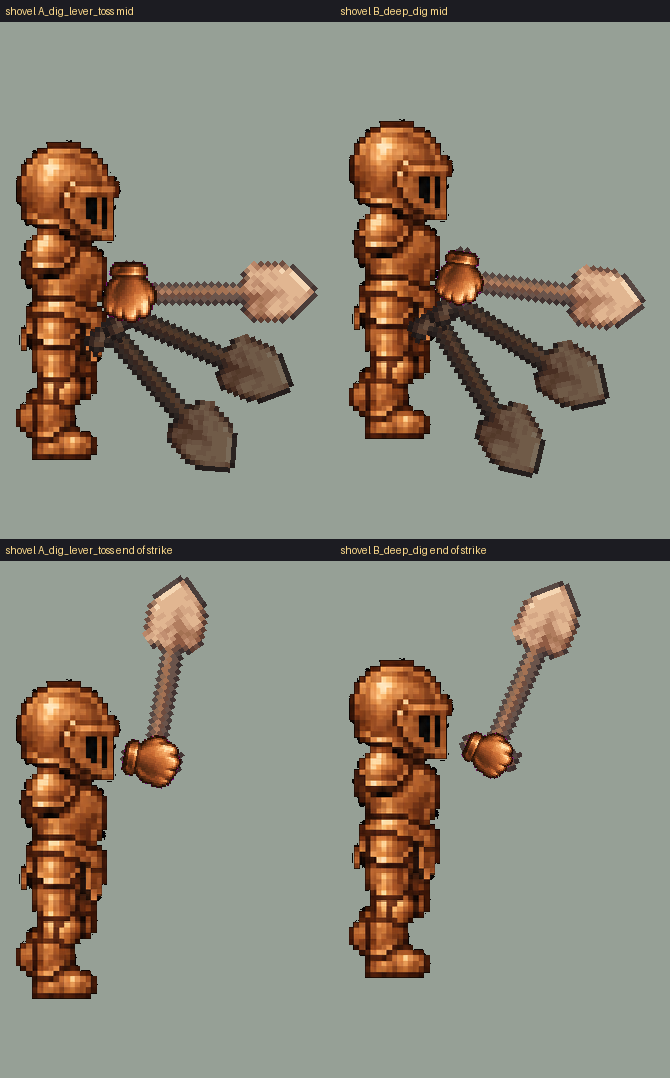
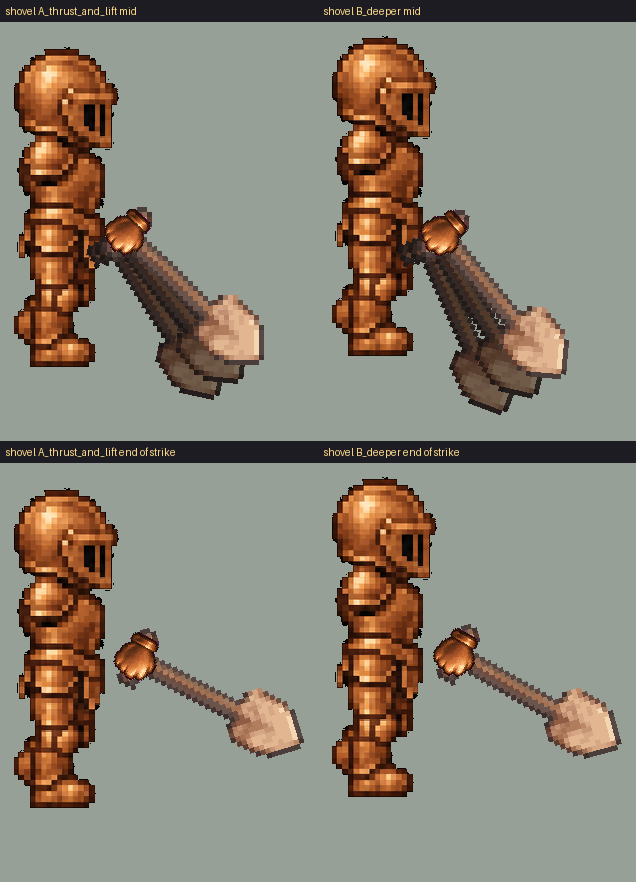
Shovel: thrust in, lift a little, return
"the shovel looks nothing like a shovel, you are supposed to thrust in and then
swing up just a little before returning."

My version levered the handle right over and heaved the load up past his
shoulder. That is a different action entirely - I built the whole dig-lever-lift-
toss sequence when the animation needs the first beat and a small lift.

Now: REACH drives the blade in (0.32 -> 0.68 cells), then a SMALL angular change
at the end (-70 -> -48 deg), then return. The blade never leaves the ground line.
FILMSTRIP_shovel.png shows all 12 frames.

Also fixed a bug I introduced with the clear-the-folder-each-run change: it
removed EVERY file in the review folder, including the hand-written README
explaining the options. Those notes are not regenerable. All three lab scripts now
clear only the .gif/.png they produce.

Changed region(s): [[0.0, 0.0, 1.0, 0.4898], [0.0, 0.4898, 1.0, 0.949]]

diff --git a/tools/player_sprites/swing_tools.py b/tools/player_sprites/swing_tools.py
@@ -83,13 +83,19 @@ TOOLS = {
                         (30, -28, 0.44)),
     }),
     "shovel": ("shovel_copper_icon.png", False, {
-        # DIG. push in -> lever the handle back with the blade planted -> lift -> toss.
-        "A_dig_lever_toss": ((-55, 25, 0.45),
-                             [(-72, 10, 0.62), (-80, 5, 0.68), (-45, 45, 0.50), (10, 70, 0.50)],
-                             (-40, 35, 0.44)),
-        "B_deep_dig": ((-50, 28, 0.44),
-                       [(-76, 8, 0.64), (-86, 2, 0.74), (-50, 42, 0.52), (0, 66, 0.52)],
-                       (-40, 35, 0.44)),
+        # THRUST IN, then swing up JUST A LITTLE, then return. Owner: "you are supposed to thrust in and
+        # then swing up just a little before returning."
+        #
+        # The motion is REACH (driving the blade into the ground), and the lift is a SMALL angular change
+        # at the end — the blade never leaves the ground line. My previous version levered the handle right
+        # over and heaved the load up past his shoulder, which is a completely different action and looked
+        # nothing like a shovel.
+        "A_thrust_and_lift": ((-50, 20, 0.32),
+                              [(-62, 12, 0.52), (-70, 6, 0.68), (-58, 14, 0.66), (-48, 20, 0.62)],
+                              (-50, 22, 0.36)),
+        "B_deeper": ((-46, 22, 0.30),
+                     [(-64, 10, 0.54), (-76, 2, 0.74), (-62, 12, 0.72), (-50, 20, 0.66)],
+                     (-48, 24, 0.34)),
     }),
     "spear": ("spear_bronze_icon.png", True, {
         # COCKED BACK at the body, then driven forward. Reach is the entire motion.
@@ -107,7 +113,10 @@ def main():
     d = os.path.join(R.PLAYER, "reviews", f"{datetime.date.today().isoformat()}-swing-tools")
     os.makedirs(d, exist_ok=True)
     for f in sorted(os.listdir(d)):
-        os.remove(os.path.join(d, f))
+        # Clear only what THIS script generates. A blanket remove deletes the hand-written README in the
+        # folder too, which happened once — the notes explaining the options are not regenerable.
+        if f.lower().endswith((".gif", ".png")):
+            os.remove(os.path.join(d, f))
 
     hands, _ = R.load_hands(OUTFIT)
     body = R.load_bank(OUTFIT, "side", 1)[1]

diff --git a/tools/player_sprites/swing_game.py b/tools/player_sprites/swing_game.py
@@ -155,7 +155,10 @@ def main():
     d = os.path.join(R.PLAYER, "reviews", f"{datetime.date.today().isoformat()}-swing-game")
     os.makedirs(d, exist_ok=True)
     for f in sorted(os.listdir(d)):
-        os.remove(os.path.join(d, f))
+        # Clear only what THIS script generates. A blanket remove deletes the hand-written README in the
+        # folder too, which happened once — the notes explaining the options are not regenerable.
+        if f.lower().endswith((".gif", ".png")):
+            os.remove(os.path.join(d, f))
 
     made = []
     for group in (FRONT, BACK, SIDE):

diff --git a/tools/player_sprites/swing_five.py b/tools/player_sprites/swing_five.py
@@ -188,7 +188,10 @@ def main():
     d = os.path.join(R.PLAYER, "reviews", f"{datetime.date.today().isoformat()}-swing-five")
     os.makedirs(d, exist_ok=True)
     for f in sorted(os.listdir(d)):
-        os.remove(os.path.join(d, f))
+        # Clear only what THIS script generates. A blanket remove deletes the hand-written README in the
+        # folder too, which happened once — the notes explaining the options are not regenerable.
+        if f.lower().endswith((".gif", ".png")):
+            os.remove(os.path.join(d, f))
 
     made = {}
     for facing in FACINGS:

diff --git a/tools/_generated/player/reviews/2026-08-04-swing-tools/README.md b/tools/_generated/player/reviews/2026-08-04-swing-tools/README.md
@@ -17,7 +17,7 @@ channel carries the motion — angle, or reach.
 | **axe** | CHOP | a big arc that **bites and STOPS**. A real axe does not follow through past the wood |
 | **hoe** | TILL | chop in, then **DRAG back** toward you. The drag is the working stroke, not the chop |
 | **net** | CATCH | sweep **hoop-first**, then **LIFT to enclose** — it does not pass through and keep going |
-| **shovel** | DIG | push the blade **in**, **LEVER** the handle back with the blade planted, lift, toss. Nothing about digging is a swing |
+| **shovel** | DIG | **thrust the blade in**, then swing up **just a little**, then return. Reach does the digging; the lift is a small angular change at the end and the blade never leaves the ground line |
 | **spear** | THRUST | cocked back at the body, then driven forward. **Reach is the entire motion** |
 
 **Reach shrinking while the tool stays low IS the drag and the lever. Reach growing with a still angle IS

diff --git a/docs/guides/art/CHARACTER_DESIGN_GUIDE.md b/docs/guides/art/CHARACTER_DESIGN_GUIDE.md
@@ -322,7 +322,7 @@ a code smell: *"sword is not an axe swing"*. The channel that carries the motion
 - **hoe** — lift a little, strike the ground, then **PULL back** toward the player
 - **net** — the **hoop LEADS**: carry the tool *ahead* of the arm (negative blade-behind). Trailing it is
   what made the net swing bulge-first
-- **shovel** — **jab down**, then lift like a scoop
+- **shovel** — **thrust in**, then swing up **just a little**, then return. The lift is small and the blade stays on the ground line; levering the handle over and heaving the load up is a different action and looks nothing like a shovel
 - **spear** — **REACH does the work** (0.78-0.92 cells), the angle barely moves
 
 ⚠ Rotation is the wrong channel for a stab. Building the spear and shovel as arcs is why they read as
